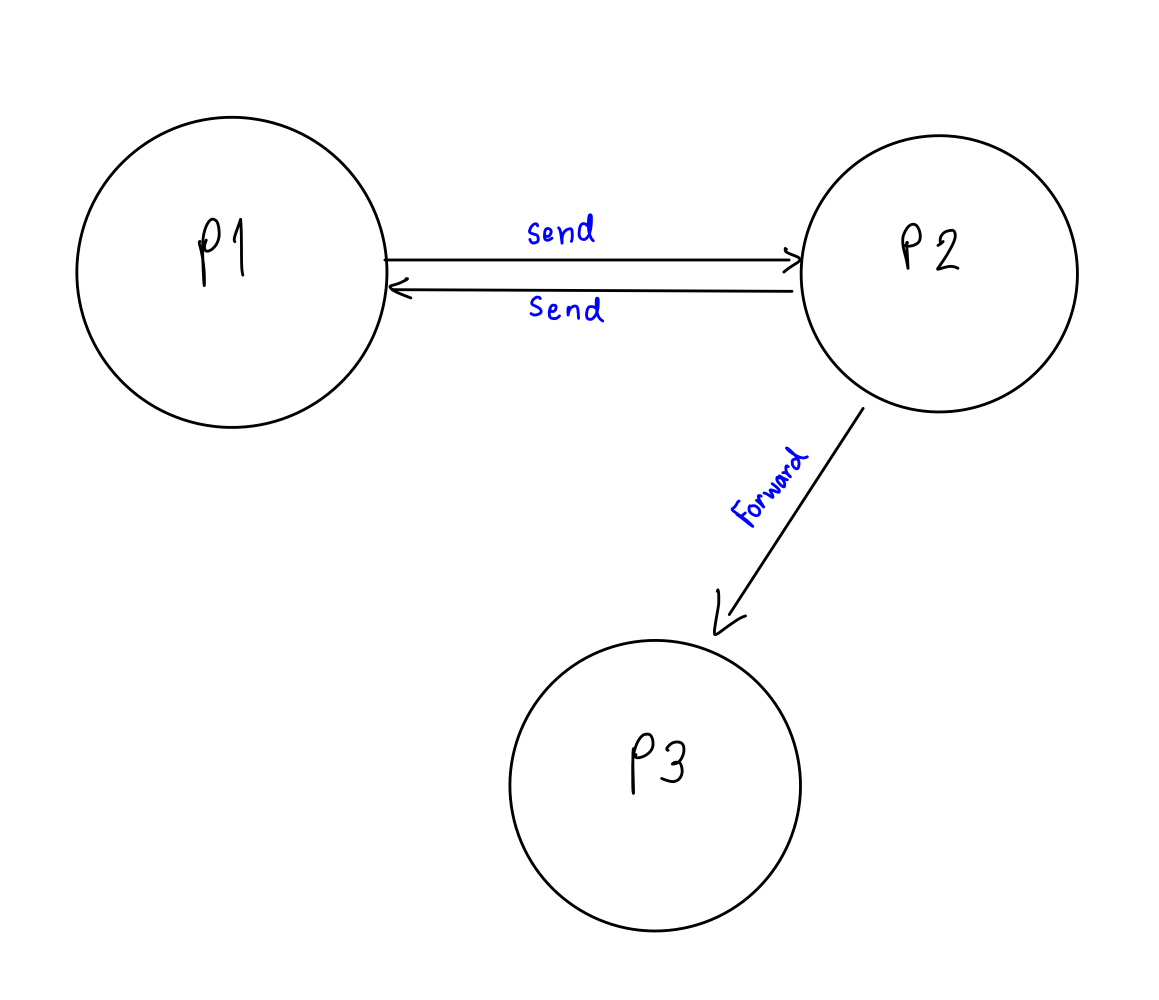
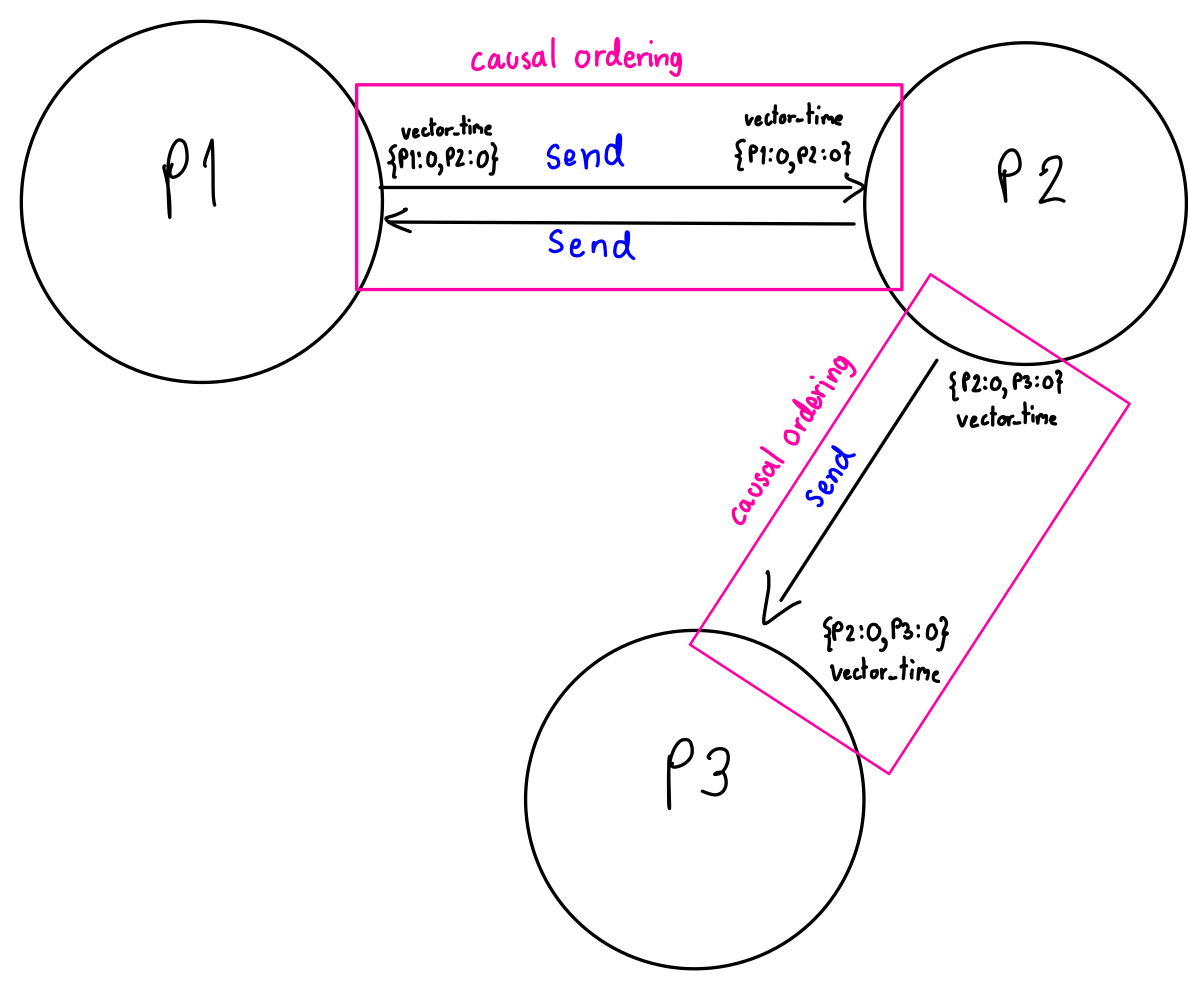
update: document :sparkles:

diff --git a/assignment.md b/assignment.md
@@ -62,19 +62,33 @@ P2 will have vector_time and a buffer list of communication with P1, and vector_
 
 P3 will have vector_time and a buffer list of communication with P2.
 
-We start implementation by using objects for representing the people as you can see in `solution.py`. In this file, `Process` class has buffer_list as `List` to store the message that buffered and vector_time as `Dict` that we decide to make it 2D Dict first dimension is the target group and the second dimension is vector_time in each group. There are four significant methods of `Process` object are `send_message`, `send_message_by_type`, `receive_message`, `check_buffer_list`.
+We start implementation by using objects for representing the people as you can see in `solution.py`. In this file, `Process` class has buffer_list as `List` to store the message that buffered and vector_time as `Dict` that we decide to make it 2D Dict first dimension is the target group and the second dimension is vector_time in each group. There are four significant methods of `Process` object are `send_message`, `send_message_by_type`, `receive_message`, and `check_buffer_list`.
 
 1) `send_message` is the method that we create for setting the delay of each type of message and we also check that if the sender is P2 it also send to P3.
 
 2) `send_message_by_type` is the method that we implement same as the causal ordering concept that we add the vector time of the sender by 1 and send the message to other people.
 
-3) `receive_message` is the method that we implement same as the causal ordering concept that when we receive the message we need to check two conditions. First is vector time of sender from incoming message must equal our vector time of sender that we plus 1. Second is other vector time of receiver must more than or equal the vector time of sender. Otherwise, the message will be buffered and stored in a buffer list.
+3) `receive_message` is the method that we implement same as the causal ordering concept that when we receive the message we need to check two conditions. First is vector time of sender from incoming message must equal our vector time of sender that we plus 1. Second is other vector time of receiver must more than or equal the vector time of sender. Otherwise, the message will be buffered and stored in a buffer list. We also check that if the receiver is P2 it also send to P3 and we also check messages in the buffer list.
 
 4) `check_buffer_list` is the method that we use for checking that we can receive the message in the buffer list or not that we will call when receiving message success.
 
-The code is run in sequence in a single process, works as our expectation, and sent the output to show in another 3 terminal using `socket` and `netcat`. 
+The code is run in sequence in a single process, works as our expectation, and sent the output to show in another 3 terminals using `socket` and `netcat`. 
 
-Then we change from use object to use process for representing the people. We bring `multiprocessing` library in our project for implementation. The code is in `solution_multithread.py`. The code is similar to before, it just changes the method name and refactors to be implemented in multi-process. Now the flow of our solution is changed since when wait to receive a message from another process the process cannot send the message or do anything else. But we think it is acceptable since in the real world when we communicate with people if we talk about the same topic we need to know the message of other people before we reply. 
+Then we change from use object to use process for representing the people. We bring `multiprocessing` library in our project for implementation. The code is in `solution_multithread.py`. The code is similar to before, it just changes the method name and refactors to be implemented in multi-process. 
+
+As I mentioned before, in `multiprocessing` we use `Process` to simulate a user, `Pipe` as the communication way between people, and `Array` for store shared state.
+
+In `solution_multithread.py`, there are four significant methods are `send_message`, `receive_message`, `handle_receive_message`, and `handle_buffer_message`. 
+
+1) `send_message` is the method that we use for sending the messages which have different delivery times depending on the type of message to `Pipe` which is a communication way between two processes (two users).
+
+2) `receive_message` is the method that we use for receiving the messages from `Pipe` and passing it to `handle_receive_message`.
+
+3) `handle_receive_message` is the method that we use for handling the message that we can receive or we need to put it into the buffer list. We check two conditions of causal ordering, first is the vector time of sender from incoming message must equal our vector time of sender that we plus 1. Second is other vector time of receiver must more than or equal the vector time of sender. Otherwise, the message will be buffered and stored in a buffer list. After that, we check whether the process is process2 or not because we need to forward the message to process3. Then we call `handle_buffer_message` method.
+
+4) `handle_buffer_message` is the method that we use for checking that we can receive the message in the buffer list or not by passing the message in the buffer list into `handle_receive_message`.
+
+We also sent the output to show in another 3 terminals using `socket` and `netcat`. But the flow of our solution is changed since when wait to receive a message from another process the process cannot send the message or do anything else. But we think it is acceptable since in the real world when we communicate with people if we talk about the same topic we need to know the message of other people before we reply. 
 
 ### Testcase
 
